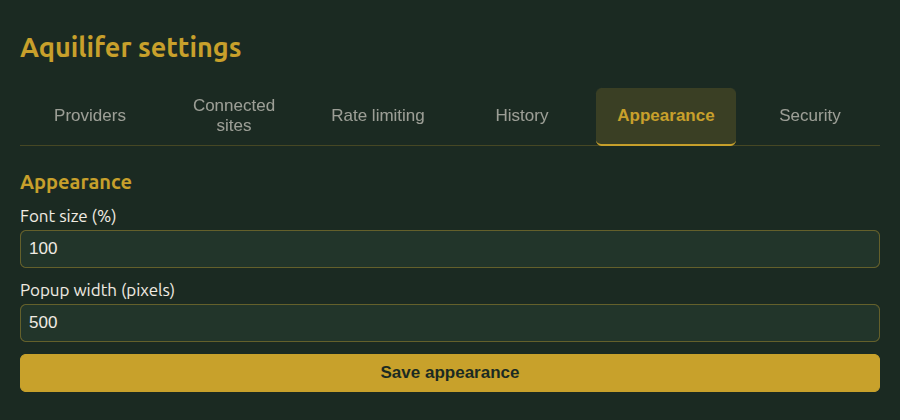
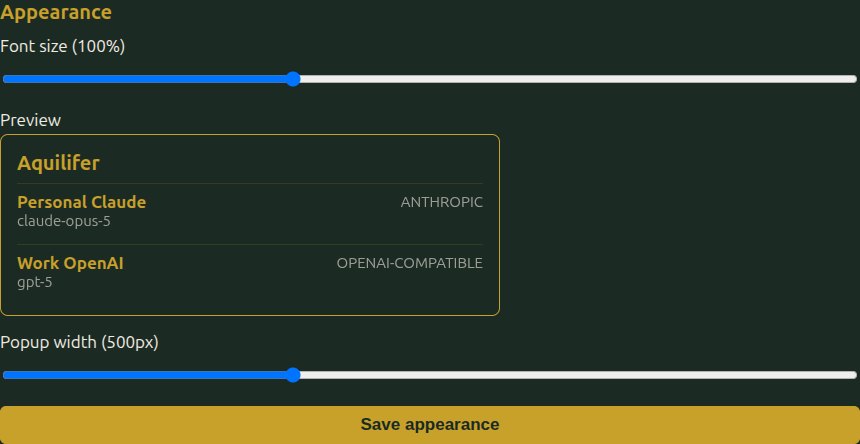
fix(options): drop popup height setting, preview two fake providers
Popup height was never actually independent of its content — remove
the popupHeight preference and its slider, and let the preview box's
height follow its own content instead, same as the real popup. Replace
its generic placeholder text with a fake Anthropic and a fake
OpenAI-compatible provider so it reads as a populated provider list.

diff --git a/entrypoints/options/AppearanceSection.test.tsx b/entrypoints/options/AppearanceSection.test.tsx
@@ -15,8 +15,8 @@ describe('Appearance defaults', () => {
       screen.getByRole('slider', { name: 'Font size (100%)' }),
     ).toHaveValue('100');
     expect(
-      screen.getByRole('spinbutton', { name: 'Popup width (pixels)' }),
-    ).toHaveValue(500);
+      screen.getByRole('slider', { name: 'Popup width (500px)' }),
+    ).toHaveValue('500');
   });
 });
 
@@ -28,7 +28,7 @@ describe('Appearance field tooltips', () => {
       'title',
       expect.stringContaining('every piece of text'),
     );
-    expect(screen.getByText('Popup width (pixels)')).toHaveAttribute(
+    expect(screen.getByText('Popup width (500px)')).toHaveAttribute(
       'title',
       expect.stringContaining('toolbar popup'),
     );
@@ -59,13 +59,56 @@ describe('Moving the font-size slider', () => {
   });
 });
 
+describe('Moving the popup width slider', () => {
+  it('updates the preview box width immediately, without saving', async () => {
+    render(<AppearanceSection />);
+
+    const widthSlider = screen.getByRole('slider', {
+      name: 'Popup width (500px)',
+    });
+    await waitFor(() => expect(widthSlider).toHaveValue('500'));
+    fireEvent.change(widthSlider, { target: { value: '700' } });
+
+    const preview = document.querySelector('.popup-size-preview');
+    expect(preview).toHaveStyle({ width: '700px' });
+    // Height was never set on the preview to begin with — it's content-
+    // driven, same as the real popup, not a slider-controlled value.
+    expect((preview as HTMLElement).style.height).toBe('');
+
+    // Not persisted until Save is actually clicked.
+    const stored = await browser.storage.local.get('uiPreferences');
+    expect(stored.uiPreferences).toBeUndefined();
+  });
+});
+
+describe('The popup preview', () => {
+  it('shows one anthropic and one openai-compatible fake provider', () => {
+    render(<AppearanceSection />);
+
+    expect(screen.getByText('Personal Claude')).toBeInTheDocument();
+    expect(screen.getByText('anthropic')).toBeInTheDocument();
+    expect(screen.getByText('claude-opus-5')).toBeInTheDocument();
+
+    expect(screen.getByText('Work OpenAI')).toBeInTheDocument();
+    expect(screen.getByText('openai-compatible')).toBeInTheDocument();
+    expect(screen.getByText('gpt-5')).toBeInTheDocument();
+  });
+});
+
 describe('Saving appearance', () => {
   it('persists changed values and shows a confirmation', async () => {
     render(<AppearanceSection />);
 
-    const slider = screen.getByRole('slider', { name: 'Font size (100%)' });
-    await waitFor(() => expect(slider).toHaveValue('100'));
-    fireEvent.change(slider, { target: { value: '130' } });
+    const fontSlider = screen.getByRole('slider', {
+      name: 'Font size (100%)',
+    });
+    await waitFor(() => expect(fontSlider).toHaveValue('100'));
+    fireEvent.change(fontSlider, { target: { value: '130' } });
+
+    const widthSlider = screen.getByRole('slider', {
+      name: 'Popup width (500px)',
+    });
+    fireEvent.change(widthSlider, { target: { value: '700' } });
 
     await userEvent.click(
       screen.getByRole('button', { name: 'Save appearance' }),
@@ -76,6 +119,9 @@ describe('Saving appearance', () => {
     ).toBeInTheDocument();
 
     const stored = await browser.storage.local.get('uiPreferences');
-    expect(stored.uiPreferences).toEqual({ fontScale: 1.3, popupWidth: 500 });
+    expect(stored.uiPreferences).toEqual({
+      fontScale: 1.3,
+      popupWidth: 700,
+    });
   });
 });

diff --git a/entrypoints/options/AppearanceSection.tsx b/entrypoints/options/AppearanceSection.tsx
@@ -56,10 +56,55 @@ function AppearanceSection() {
           />
         </label>
 
+        {/* Not the real popup — this page can't open one, so it's a
+         * stand-in built from the same palette/type scale to show
+         * relative width as the slider moves. Its height is never set
+         * directly, same as the real popup: it grows and shrinks with
+         * its own (fake) content instead of being a separate preference.
+         * The real popup's on-screen size still ultimately depends on
+         * the browser/OS, same unverifiable-by-automation caveat as
+         * popupWidth always had. */}
+        <div>
+          <span>Preview</span>
+          <div className="popup-size-preview-wrapper">
+            <div
+              className="popup-size-preview"
+              aria-hidden="true"
+              style={{ width: prefs.popupWidth }}
+            >
+              <strong className="popup-size-preview-title">Aquilifer</strong>
+              <ul className="popup-size-preview-providers">
+                <li>
+                  <div className="popup-size-preview-provider-row">
+                    <strong>Personal Claude</strong>
+                    <span className="popup-size-preview-provider-type">
+                      anthropic
+                    </span>
+                  </div>
+                  <span className="popup-size-preview-provider-model">
+                    claude-opus-5
+                  </span>
+                </li>
+                <li>
+                  <div className="popup-size-preview-provider-row">
+                    <strong>Work OpenAI</strong>
+                    <span className="popup-size-preview-provider-type">
+                      openai-compatible
+                    </span>
+                  </div>
+                  <span className="popup-size-preview-provider-model">
+                    gpt-5
+                  </span>
+                </li>
+              </ul>
+            </div>
+          </div>
+        </div>
+
         <label title="Only the toolbar popup's own width — not the connection-approval, rate-limit, or vault-unlock popups, which are separate, transient windows.">
-          Popup width (pixels)
+          Popup width ({prefs.popupWidth}px)
           <input
-            type="number"
+            type="range"
             min={300}
             max={900}
             step={10}

diff --git a/entrypoints/options/style.css b/entrypoints/options/style.css
@@ -542,6 +542,78 @@ button:disabled {
   gap: 6px;
 }
 
+/* A stand-in for the real popup (Appearance tab) — this page can't open
+ * one to show at true size, so this is built from the popup's own
+ * palette instead, its width sized directly off the width slider's live
+ * value so moving it is visible immediately. Its own height is never set
+ * — like the real popup, it's driven purely by its (fake) content. The
+ * fake providers deliberately use one of each provider type so the
+ * preview shows what a populated, mixed-provider list actually looks
+ * like, not just an empty shell. overflow-x on the wrapper, not the
+ * preview itself, so a width past this page's own max-width scrolls
+ * instead of breaking the page layout. */
+.popup-size-preview-wrapper {
+  overflow-x: auto;
+  margin: 4px 0;
+}
+
+.popup-size-preview {
+  box-sizing: border-box;
+  display: flex;
+  flex-direction: column;
+  gap: 8px;
+  padding: 16px;
+  border: 1px solid var(--color-gold);
+  border-radius: 8px;
+  background: var(--color-bg);
+  color: var(--color-parchment);
+}
+
+.popup-size-preview-title {
+  color: var(--color-gold);
+  font-size: var(--font-size-lg);
+}
+
+.popup-size-preview-providers {
+  list-style: none;
+  margin: 0;
+  padding: 0;
+  display: flex;
+  flex-direction: column;
+  gap: 6px;
+}
+
+.popup-size-preview-providers li {
+  padding: 8px 0;
+  border-top: 1px solid rgba(201, 162, 39, 0.15);
+}
+
+.popup-size-preview-provider-row {
+  display: flex;
+  align-items: center;
+  justify-content: space-between;
+  gap: 8px;
+  font-size: var(--font-size-md);
+}
+
+.popup-size-preview-provider-row strong {
+  color: var(--color-gold);
+}
+
+.popup-size-preview-provider-type {
+  font-size: var(--font-size-xs);
+  color: var(--color-parchment);
+  opacity: 0.6;
+  text-transform: uppercase;
+}
+
+.popup-size-preview-provider-model {
+  display: block;
+  font-size: var(--font-size-xs);
+  color: var(--color-parchment);
+  opacity: 0.6;
+}
+
 .checkbox-option input {
   width: auto;
   padding: 0;

diff --git a/lib/apply-ui-preferences.ts b/lib/apply-ui-preferences.ts
@@ -7,7 +7,9 @@
 //
 // --popup-width only affects popup/style.css's body width; every other
 // stylesheet simply never reads that variable, so setting it everywhere
-// is harmless rather than worth special-casing per entrypoint.
+// is harmless rather than worth special-casing per entrypoint. Height is
+// deliberately not a preference here — the popup's height is always
+// content-driven, the same as any other ordinary page.
 
 import { getUiPreferences } from './ui-preferences';
 

diff --git a/docs/docs/appearance.md b/docs/docs/appearance.md
@@ -1,15 +1,17 @@
 # Appearance
 
-Two display preferences, from the **Appearance** tab in settings: how large the extension's text reads, and how wide the toolbar popup opens.
+Two display preferences, from the **Appearance** tab in settings, both controlled with sliders: how large the extension's text reads, and how wide the toolbar popup opens.
 
-![The Appearance tab with its default values: Font size at 100% and Popup width at 500 pixels](/screenshots/appearance-tab.png)
+![The Appearance tab, showing the font size slider, a live preview of the popup with a fake Anthropic and OpenAI-compatible provider, and the popup width slider](/screenshots/appearance-tab.png)
 
 ## Font size
 
-A single percentage that scales every piece of text together, proportionally, across the popup, settings, and every approval/unlock popup: 100% is the extension's own default size, and the range runs from 50% to 200%. It applies immediately to whichever page you're on when you save, not just the next time you open something.
+A single percentage that scales every piece of text together, proportionally, across the popup, settings, and every approval/unlock popup: 100% is the extension's own default size, and the range runs from 50% to 200%. It applies immediately to whichever page you're on as you move the slider, not just after you save.
 
 ## Popup width
 
-Only affects [the toolbar popup](/docs/popup)'s own width, in pixels. The connection-approval, rate-limit, and vault-unlock popups are separate, transient windows sized on their own, so this doesn't change them.
+Only affects [the toolbar popup](/docs/popup)'s own width, in pixels. The connection-approval, rate-limit, and vault-unlock popups are separate, transient windows sized on their own, so this doesn't change them. The popup's height isn't a setting at all: like any ordinary page, it's just however tall its content happens to be.
+
+A preview box above the slider shows a mock-up of the popup at whatever width you've currently dragged it to, with a fake Anthropic provider and a fake OpenAI-compatible one so you can see what a populated provider list looks like, not just an empty shell. It's built from placeholder text, not the real popup content, since this page can't open a real one to show at true size; its own height is content-driven too, the same as the real popup's.
 
 If you've turned the font size up a lot, you may want to widen the popup too, the same way Aquilifer's own default width was widened when its own text got bigger: a larger font needs more room for the same content to avoid wrapping.
